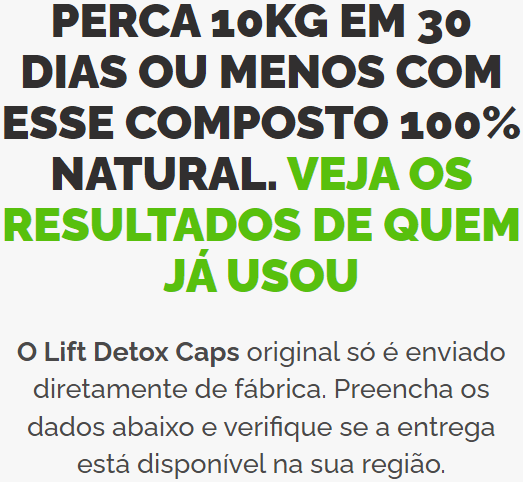
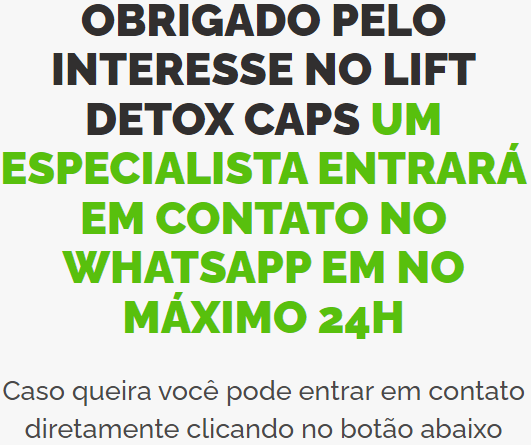
Add files via upload

diff --git a/Entrega/obrigado.html b/Entrega/obrigado.html
@@ -1,0 +1,122 @@
+<!DOCTYPE html>
+<html lang="pt-br">
+<head>
+
+	<title>OBRIGADO</title>
+	<meta charset="UTF-8">
+	<meta name="viewport" content="width=device-width, user-scalable=yes, initial-scale=1.0, maximum-scale=10, minimum-scale=1.0">
+	<link rel="stylesheet" href="css.css">
+	<link rel="stylesheet" href="https://fonts.googleapis.com/icon?family=Material+Icons">
+	<link rel="stylesheet" href="bootstrap.css">
+
+	<style type="text/css">
+		#count{
+		    color: white !important;
+		    font-size: 11px !important;
+		    font-weight: 900 !important;
+		    text-align: center !important;
+		}
+
+	    #faixa {
+	    	background-color: #ff3b3b;
+		    position: fixed;
+		    width: 100%;
+		    left: 0;
+		    z-index: 1000;
+	    }
+
+		.pulsar {
+		    animation-name: pulse;
+		    -webkit-animation-name: pulse;
+		    animation-duration: 1.5s;
+		    -webkit-animation-duration: 1.5s;
+		    animation-iteration-count: infinite;
+		    -webkit-animation-iteration-count: infinite;
+		}
+
+		@keyframes pulse{
+			0%,100%{transform:scale(.9);opacity:.9;}
+			50%{transform:scale(1);opacity:1;}
+			}
+			@-webkit-keyframes pulse{
+			0%,100%{-webkit-transform:scale(.95);opacity:.7}
+			50%{-webkit-transform:scale(1);opacity:1}
+		}
+
+		.last {
+		  color: #ffffff !important;
+		  border-radius: 6px;
+		  text-align: center;
+		  font-size: 20px;
+		  fill: #fff;
+		  font-weight: 900;
+		  transition: all 1.4s;
+		  background: radial-gradient(closest-side, #32c000 40%, #5bca00 150%);
+		  display: table;
+		  margin: 50px auto 50px;
+		  padding: 25px 50px;
+		  font-family: 'Raleway', sans-serif;
+		  animation: pulse 1.5s infinite alternate;
+		  box-shadow: 0 0 20px 1px #0e0e0ea1;
+		  border: none;
+		  text-decoration: none;
+		}
+		.last small{font-size: 14px; display: block; margin-top: 5px;}
+
+		.last:hover{
+		  text-decoration: none;
+		  color: #FFF;
+		  background-color: #910f0f;
+        }
+	</style>
+
+	<script async src="https://www.googletagmanager.com/gtag/js?id=AW-10974709010"></script>
+	<script>
+	  window.dataLayer = window.dataLayer || [];
+	  function gtag(){dataLayer.push(arguments);}
+	  gtag('js', new Date());
+
+	  gtag('config', 'AW-10974709010');
+	</script>
+
+</head>
+<body>	
+	<div id="faixa">
+		<p id="count"></p>	
+		</div>
+
+		<img class="logo" src="img/pote-topo.png">
+		<img class="headline" src="img/headline2.png">
+		
+		
+		<a class="last pulsar" href="https://api.whatsapp.com/send?phone=5511910186978&text=Ol%C3%A1%2C%20Estou%20na%20p%C3%A1gina%20do%20Lift%20Detox%20Caps%20e%20tenho%20uma%20d%C3%BAvida.">ABRIR WHATSAPP</a>
+		
+		<img class="final" src="img/30dias.png">
+	<footer>
+		<div>
+			<div class="links"><a href="termos.html">Termos de Uso</a> | <a href="privacidade.html">Política de Privacidade</a></div>
+			<!--
+			<p>Este site não é afiliado ao Facebook ou a qualquer entidade do Facebook. Depois que você sair do Facebook, a responsabilidade não é deles e sim do nosso site. Fazemos todos os esforços para indicar claramente e mostrar todas as provas e resultados reais. Nós não vendemos o seu e-mail ou qualquer informação para terceiros. Jamais fazemos nenhum tipo de spam. Sinta-se à vontade para falar conosco em horário comercial de Segunda a Sextas das 09h00 às 18h00. Lemos e respondemos todas as mensagens por ordem de chegada.</p>
+		-->
+		</div>
+	</footer>
+	
+
+	<script>
+		function calculateHMSleft()
+		{
+			var now = new Date();
+			var hoursleft = 23-now.getHours();
+			var minutesleft = 59-now.getMinutes();
+			var secondsleft = 59-now.getSeconds();
+			if(minutesleft<10) minutesleft = "0"+minutesleft;
+			if(secondsleft<10) secondsleft = "0"+secondsleft;
+			document.getElementById('count').innerHTML = "FRETE GRÁTIS encerra em: "+hoursleft+"h"+minutesleft+"min e "+secondsleft+"seg";
+		}
+		calculateHMSleft();
+		setInterval(calculateHMSleft, 1000);
+
+	</script>	
+
+</body>
+</html>

diff --git a/Entrega/index.html b/Entrega/index.html
@@ -2,7 +2,7 @@
 <html lang="pt-br">
 <head>
 
-	<title>Verificar Entrega</title>
+	<title>AVALIAÇÃO GRÁTIS</title>
 	<meta charset="UTF-8">
 	<meta name="viewport" content="width=device-width, user-scalable=yes, initial-scale=1.0, maximum-scale=10, minimum-scale=1.0">
 	<link rel="stylesheet" href="css.css">
@@ -87,16 +87,12 @@
 
 		<img class="logo" src="img/pote-topo.png">
 		<img class="headline" src="img/headline1.png">
-				<div id="form" class="login-box">
+		<div id="form" class="login-box">
 		  <h2>Preencha corretamente</h2>
 		  	<form action="https://api.sheetmonkey.io/form/5HieyX6naUxynGQ17ukmwU" method="post">
 		    <div class="user-box">
 		      <input type="text" name="Nome" required>
-		      <label>Seu Nome:</label>
-		    </div>
-		    <div class="user-box">
-		      <input type="text" name="Cidade" required>
-		      <label>Sua Cidade:</label>
+		      <label>Nome</label>
 		    </div>
 		    <div class="user-box">
 		      <input type="tel" name="Telefone" pattern="[0-9]{11}" required>
@@ -109,16 +105,17 @@
 		      <span></span>
 		      <span></span>
 		      <span></span>
-		      verificar entrega
+		      Enviar
 		    </button>
 		    <img src="img/ssl.png">
 		  </form>
 		</div>
+		<!--
 		<img class="correios" src="img/correios.png">
 		<img class="final" src="img/30dias.png">
 		
 		<a class="last pulsar" href="#form">VER OS RESULTADOS</a>
-		
+		-->
 		
 	<footer>
 		<div>
@@ -139,7 +136,7 @@
 			var secondsleft = 59-now.getSeconds();
 			if(minutesleft<10) minutesleft = "0"+minutesleft;
 			if(secondsleft<10) secondsleft = "0"+secondsleft;
-			document.getElementById('count').innerHTML = "Promoção +1 POTE GRÁTIS encerra em: "+hoursleft+"h"+minutesleft+"min e "+secondsleft+"seg";
+			document.getElementById('count').innerHTML = "FRETE GRÁTIS encerra em: "+hoursleft+"h"+minutesleft+"min e "+secondsleft+"seg";
 		}
 		calculateHMSleft();
 		setInterval(calculateHMSleft, 1000);

diff --git a/Entrega/css.css b/Entrega/css.css
@@ -222,6 +222,7 @@ footer p{
   color: #fff;
   /*padding-top: 25px;*/
   padding: 10px 0;
+  margin-top: 100px;
 }
 
 .links a{
